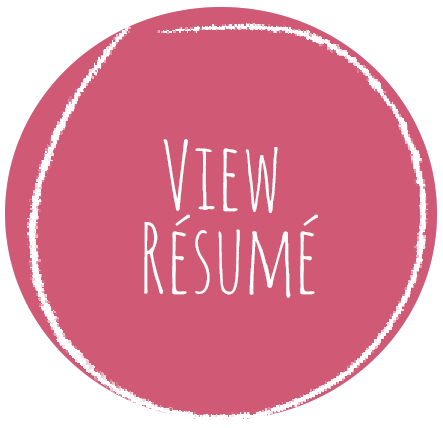
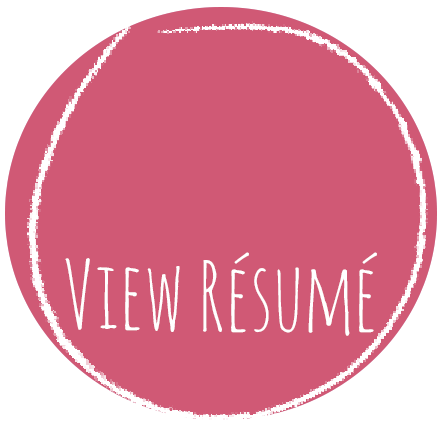
about pic

diff --git a/About.html b/About.html
@@ -141,6 +141,24 @@
 	opacity: 0.5;
 }
 
+.links{
+    background:url('https://github.com/pandapi/pandapi.github.io/blob/master/Site%202.0/Images/Viewresume.png?raw=true');
+	background-repeat: no-repeat;
+	background-size: 200px, 200px;
+	width: 200px;
+ 	height:200px;
+	margin-left: auto;
+    margin-right: auto;
+    background-position: absolute;
+    display: block;
+    margin-top:-100px;
+
+}
+
+.links:hover{
+	opacity: 0.5;
+}
+
 #content {
 	margin: auto;
 	width:1000px;
@@ -158,7 +176,6 @@
 	margin-left: -100px;
 	z-index: 1;
 	background-position: absolute;
-
 }
 
 
@@ -190,17 +207,20 @@
 	<img src = "https://github.com/pandapi/pandapi.github.io/blob/master/Site%202.0/Images/Boxy1.png?raw=true" style="width:500px;height:500px">
 	</div>
 	
+	<div class = "links">
+	<a href="https://github.com/pandapi/pandapi.github.io/raw/master/Site%202.0/Resume/2015.04.08%20Resume.pdf" class="resume" title="Download Resume"></a>
 	</div>
+
+	
+	</div>
+	
+
 	
 	<div class="group">
 	<a href="index.html" class="home" title="Homepage"></a>
     <a href="index.html" class="back" title="Return Home"></a>
 	</div>
 	
-	<div class = "links">
-	<a href="mailto:hempinado@gmail.com" class="email" "title="Send an Email"></a>
-	<a href="https://github.com/pandapi/pandapi.github.io/raw/master/Site%202.0/Resume/2015.04.08%20Resume.pdf" class="resume" title="Download Resume"></a>
-	</div>
 	
 	</div>
 	
